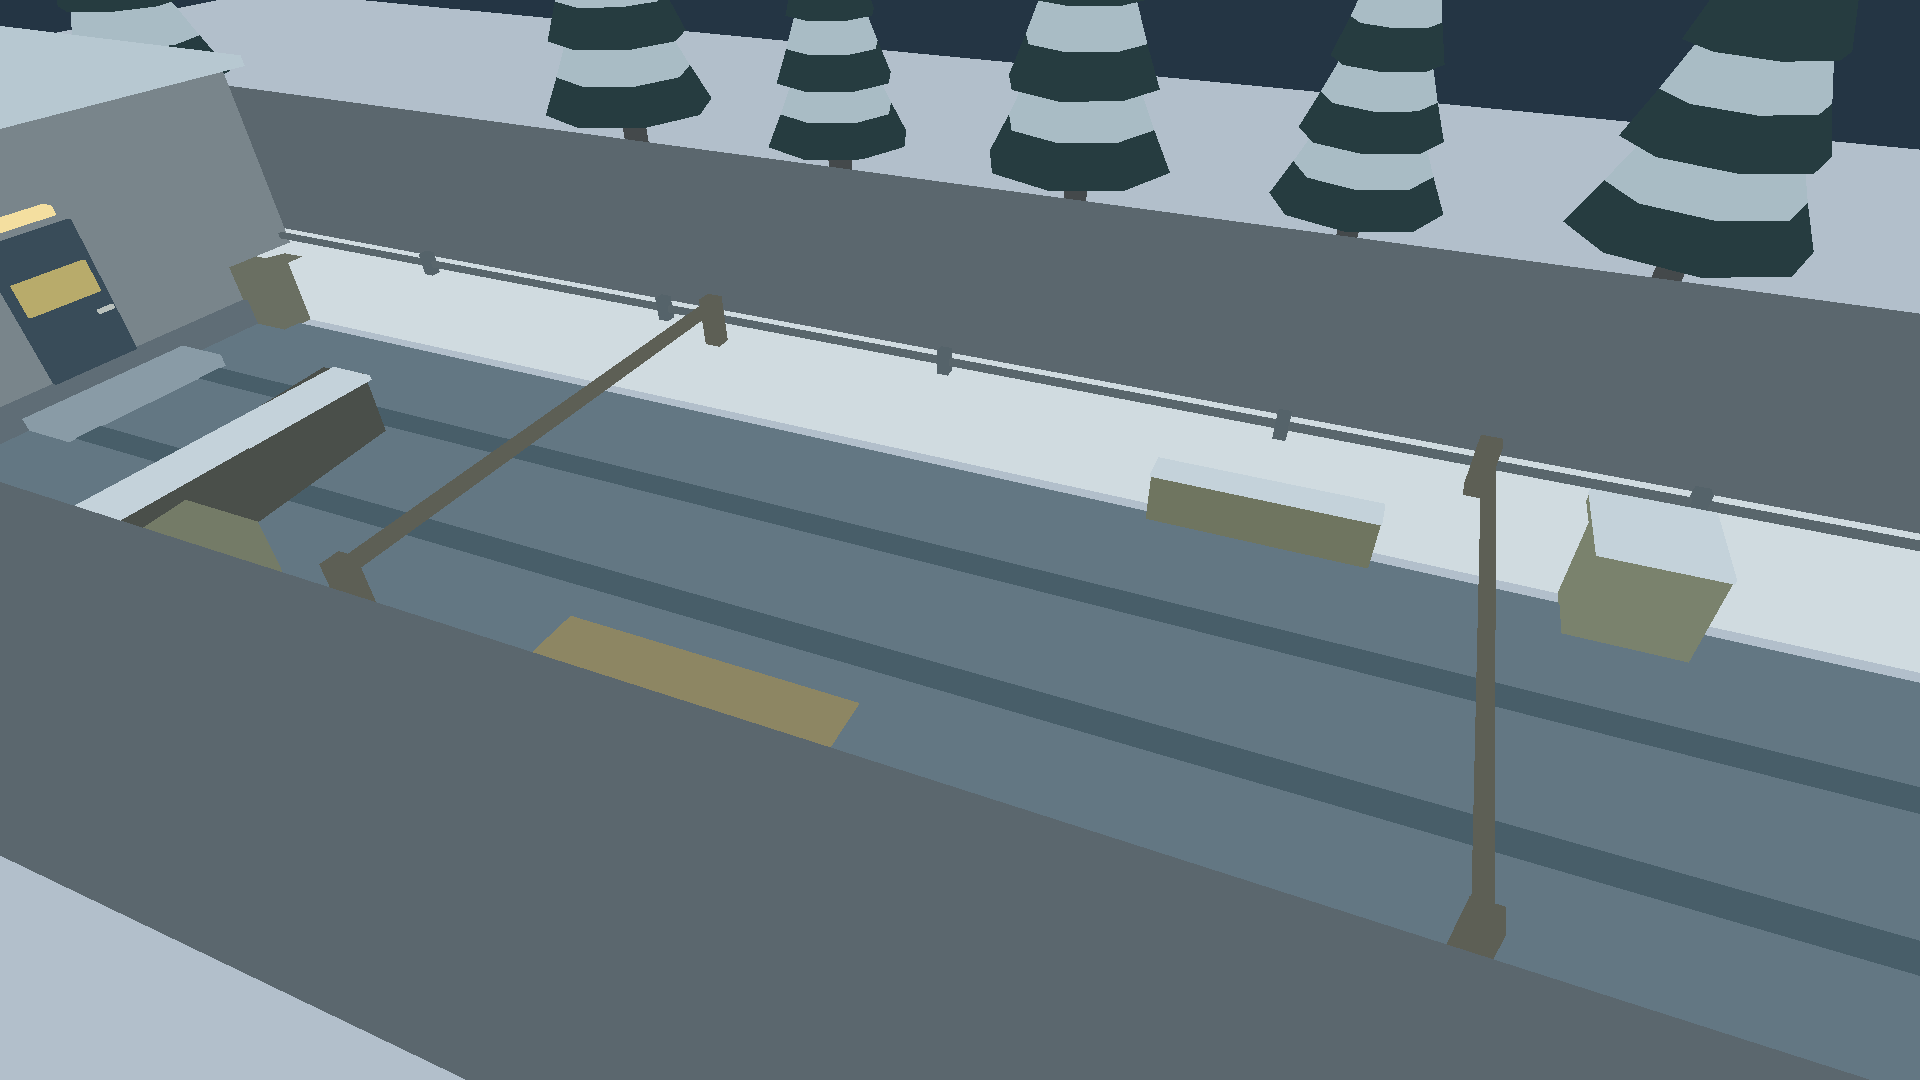
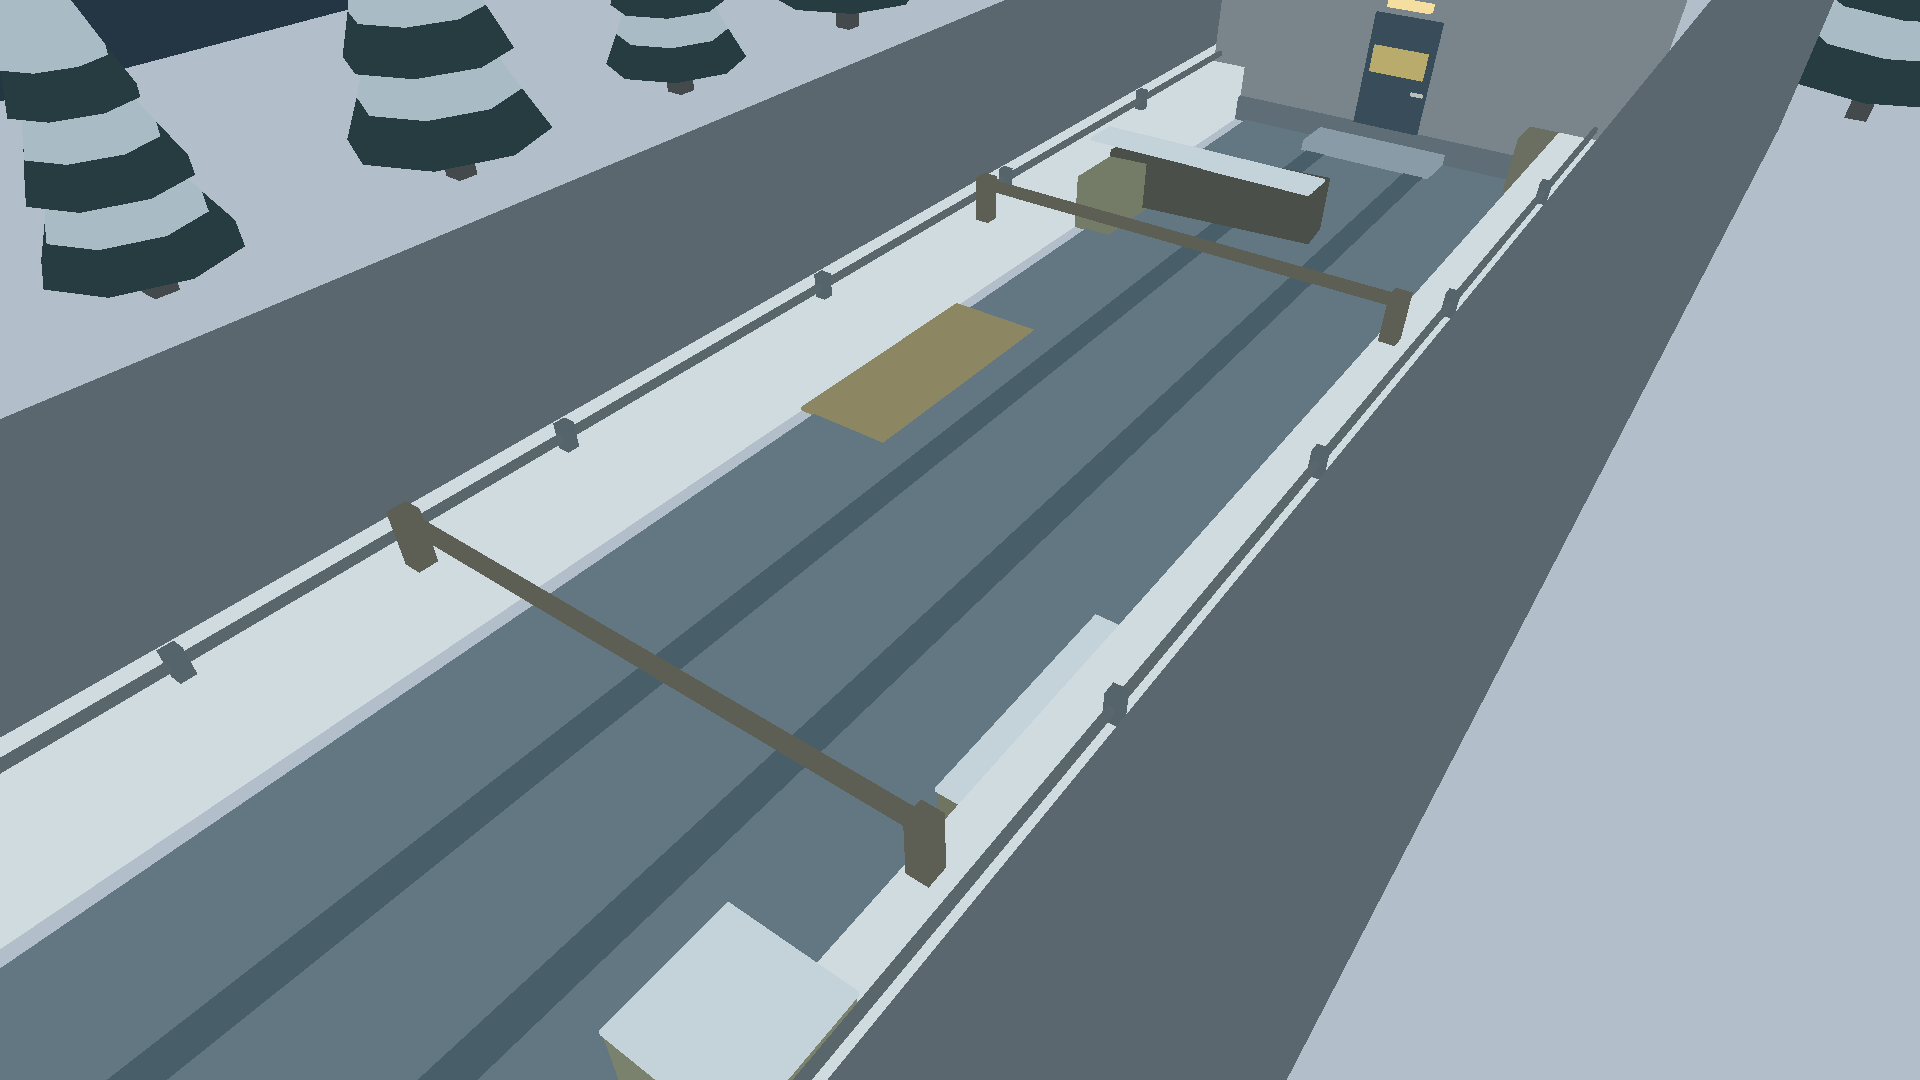
Turn the pen view up the trail and letterbox the outage cutscene
The perimeter's second framing looked across the corridor, so walking up
the trail was down in the first view, left in the second and up in the
third. It now stands south-east of the pen, at (6; 8; -6) looking at
(1; 1; -13) with a 48 degree lens, 35,5 degrees of yaw against the shed
view's 46,6: up is up in both. Dylan stays 121-157 px tall across the
zone. The v02 plate belongs to the old projection and leaves ART_FILES;
the view shows geometry until a plate is painted from the new capture
(ART_CAM02_V03_PROMPT.txt). The probe checks the view looks north and
agrees with the shed view, and that a framing without a plate never
shows a stale one.

The relay room's outage now plays under CinematicBars, a letterbox inside
the 16:9 composition that the HUD steps aside for. Dylan is startled when
the animal stops and looks in, and once the bars lift the player walks
him to the rear door instead of the autopilot. The startled clip and a
replacement back dodge (dodge_back_v2.fbx) are declared in the animation
builder and enter as soon as their Mixamo exports are dropped in.

diff --git a/docs/RELAY_ROOM.md b/docs/RELAY_ROOM.md
@@ -13,13 +13,15 @@ do perímetro; `executar-rele.cmd` abre a sala direto.
    BIOS, boot do Arch Linux com linhas `[  OK  ]` e uma `[FAILED]` do uplink,
    login `operator`, `journalctl -u relay-log` e as cinco entradas do operador.
    E/Enter/disparo terminam o bloco em curso; nada é pulado sem aparecer.
-4. Depois do log o UPS acaba: o console colapsa como tubo, a etapa vira `OUTAGE`,
+4. Depois do log o UPS acaba e as barras pretas (`CinematicBars`, 12 % em cima e
+   embaixo, dentro da composição 16:9 e portanto sob o filtro) descem; o HUD sai de cena: o console colapsa como tubo, a etapa vira `OUTAGE`,
    a luz pisca e apaga, a tela e os LEDs morrem e a lâmpada vermelha de emergência
    pulsa.
 5. Corte por cima do ombro para a janela: um Keleken passa lá fora sob a lâmpada do
    pátio, para, olha para dentro e segue. Aviso: "Something is circling the shed."
-6. De volta à câmera da sala, Dylan anda sozinho até a porta dos fundos
-   (`PlayerController.autopilot`) e sai: a cinemática mostra **BEHIND THE RELAY SHED**.
+6. De volta à câmera da sala, as barras sobem, o HUD volta e o controle é do jogador,
+   com o objetivo "Leave by the rear door". A porta dos fundos destrava; **E** nela
+   leva para fora e a cinemática mostra **BEHIND THE RELAY SHED**.
 7. Na trilha, atrás do galpão: etapa `REAR_YARD`, fim do conteúdo autorado por ora.
    A porta dos fundos leva de volta à sala, que continua sem energia.
 
@@ -58,10 +60,12 @@ antigos continuam válidos. Não há terminal de salvamento na trilha nem no rel
 
 ## Animações
 
-Dylan usa os clipes que já tem. A sala pede por nome `terminal_type` (ao teclado) e
-`startled_turn` (ao virar para a janela) por `DylanVisual.play_scripted()`, que cai
-para `idle` enquanto esses clipes não existem. Basta adicioná-los a
-`tools/build_dylan_animations.gd` para entrarem.
+A sala pede por nome `terminal_type` (ao teclado) e `startled` (o susto, quando o
+animal para e olha pela janela) por `DylanVisual.play_scripted()`, que cai para
+`idle` enquanto o clipe não existe. `startled` já está declarado em
+`tools/build_dylan_animations.gd` como opcional: basta exportar do Mixamo "Startled"
+(In Place, FBX Binary, 30 fps, sem skin, no rig `dylan_mixamo`) para
+`assets/models/dylan_protagonist/mixamo/startled.fbx` e reconstruir a biblioteca.
 
 ## Verificação
 

diff --git a/docs/PERIMETER.md b/docs/PERIMETER.md
@@ -63,13 +63,26 @@ pula as capturas.
 | Enquadramento | Posição | Alvo | FOV | Cobre |
 | --- | --- | --- | --- | --- |
 | `perimeter_1` | (7; 7; −11,5) | (0; 1; −4) | 54° | `z` 0,4 … −9,5 |
-| `perimeter_2` | (−7,4; 7; −11,5) | (0; 1; −14,5) | 54° | `z` −9,4 … −19,6 |
+| `perimeter_2` | (6; 8; −6) | (1; 1; −13) | 48° | `z` −9,4 … −19,6 |
 | `perimeter_3` | (7,4; 7; −17) | (0; 1,2; −24) | 52° | `z` −19,5 … −26,8 |
 
 Cada pose foi escolhida por varredura: precisa conter todo o volume caminhável
 da própria zona em 1920 × 1080 com margem, manter Dylan entre ~110 e ~190 px de
 altura e deixar o banco e o ombro próximos livres da linha até o meio do corpo.
 O probe repete a parte da moldura a cada quadro durante a caminhada.
+
+**`perimeter_2` girada em 13/10/2026.** A pose original, em (−7,4; 7; −11,5), olhava
+o corredor de lado: subir a trilha era "baixo" na vista 1, "esquerda" na 2 e "cima"
+na 3, e quem soltava o direcional depois do corte perdia o rumo. A nova pose fica
+a sudeste do cercado e olha trilha acima, a 35,5° de guinada, perto dos 46,6° da
+vista 3: na 2 e na 3, cima é cima. Dylan fica entre 121 e 157 px em toda a zona.
+O corte 1 → 2 continua sendo o contraplano clássico (a vista 1 olha para o portão),
+amortecido pelo direcional travado enquanto segurado. `check_perimeter.gd` exige
+que a 2 olhe para o norte e concorde com a 3.
+
+A placa `art_cam02_v02.png` pertence à pose antiga e saiu de `ART_FILES`: a vista 2
+mostra geometria até a nova placa existir (`authored/ART_CAM02_V03_PROMPT.txt`,
+referência `geometry_cam02.png`).
 
 **Arte integrada em 12/10/2026.** As três placas em
 `assets/backgrounds/perimeter/authored/art_cam0{1,2,3}_v02.png` são carregadas

diff --git a/docs/DODGE_AND_GAMEPAD.md b/docs/DODGE_AND_GAMEPAD.md
@@ -60,6 +60,11 @@ so each window is compressed into the escape. Since 2026-10-12 the escape lasts
 the captures now play at 2–2.7x instead of 3–4.7x. Invulnerability is 0.41 s
 and the cooldown 1.05 s, preserving the previous proportions.
 
+**Back dodge replacement requested on 2026-10-13.** The build tool takes
+`dodge_back_v2.fbx` over the hop as soon as that file exists (whole capture,
+planted, until its window is chosen with `tools/render_dodge_candidates.gd`).
+Drop the new Mixamo export there, rebuild `dylan_clips.res` and run `esquiva`.
+
 Also evaluated and rejected: the four **Standing Dodge** captures of the Pro
 Longbow pack (the only matching four-direction set, but recorded side-on in an
 archer stance that reads as running beside a forward-aiming pistol) and
